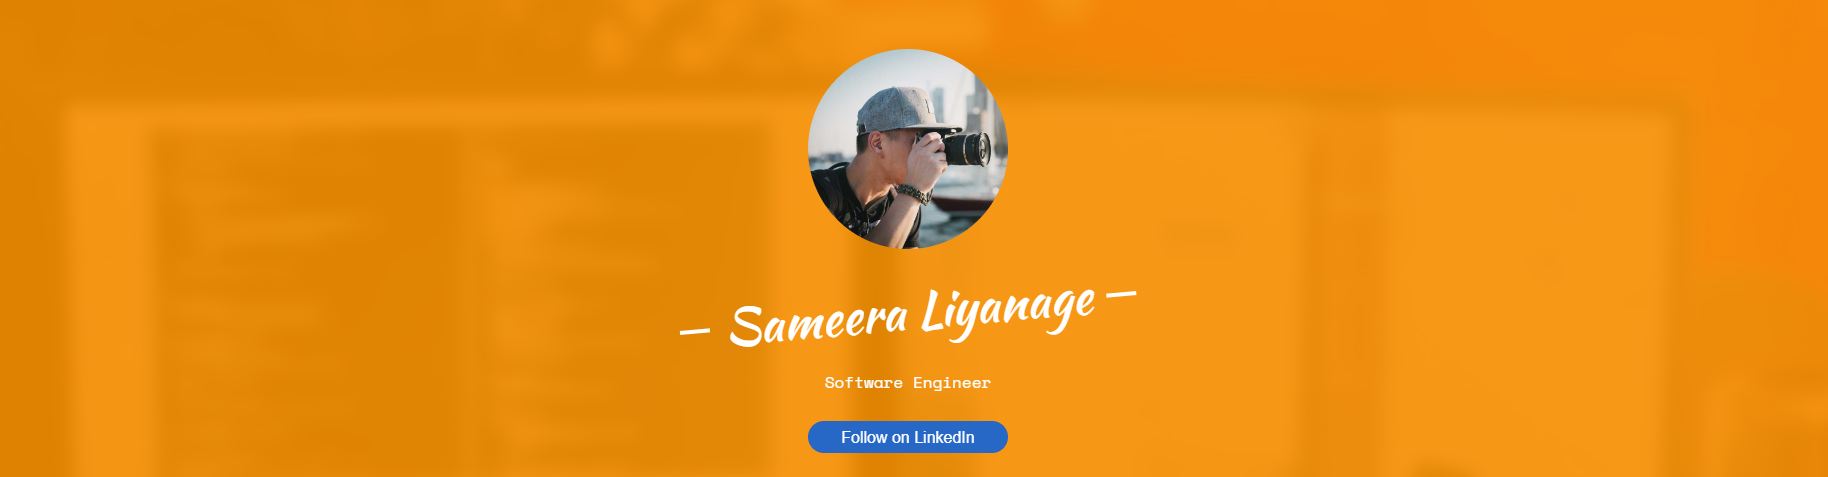
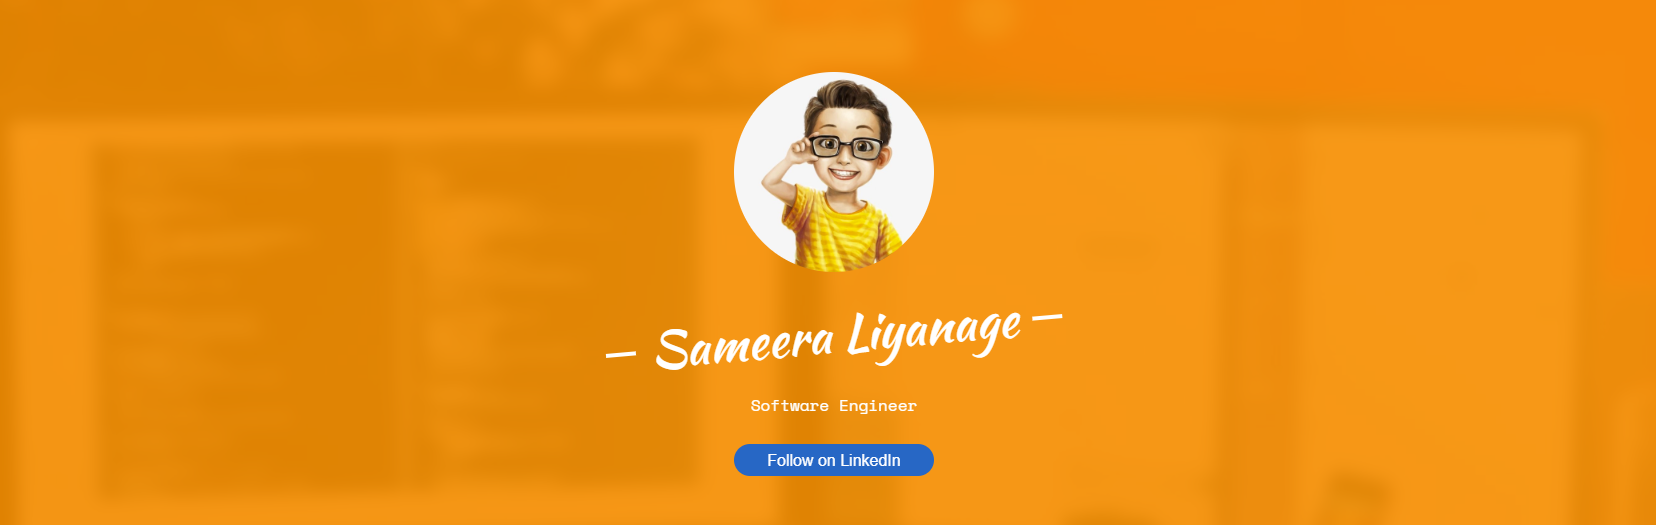
update profile picture

Changed region(s): [[0.4312, 0.0881, 0.5851, 0.5283], [0.4312, 0.7631, 0.5851, 0.9686], [0.3696, 0.587, 0.6467, 0.7338]]

diff --git a/index.html b/index.html
@@ -51,7 +51,7 @@
 				<div class="col-md-8 col-md-offset-2 text-center">
 					<div class="display-t js-fullheight">
 						<div class="display-tc js-fullheight animate-box" data-animate-effect="fadeIn">
-							<div class="profile-thumb" style="background: url(images/user-3.jpg);"></div>
+							<div class="profile-thumb" style="background: url(images/sameera.png);"></div>
 							<h1><span>Sameera Liyanage</span></h1>
 							<h3><span>Software Engineer</span></h3>
 							<p>
